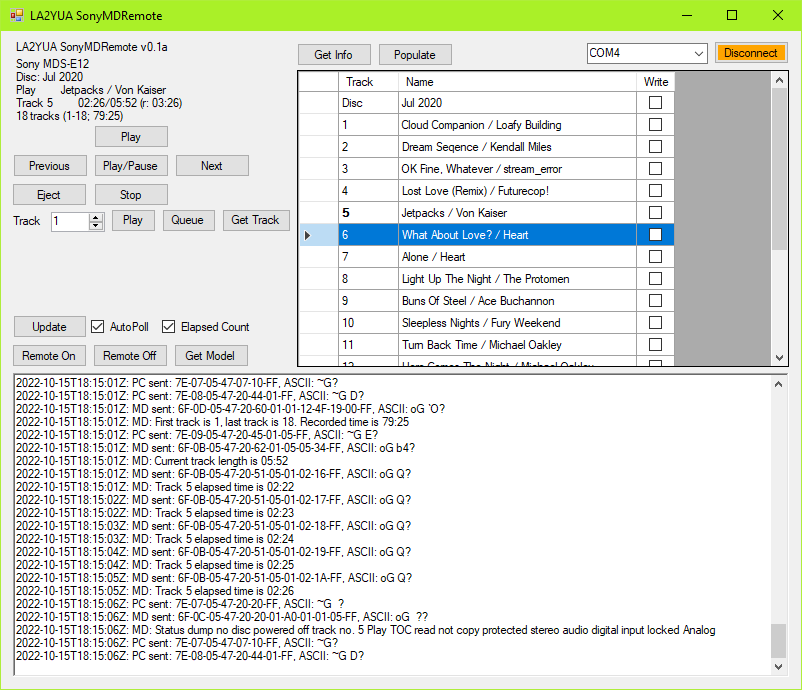
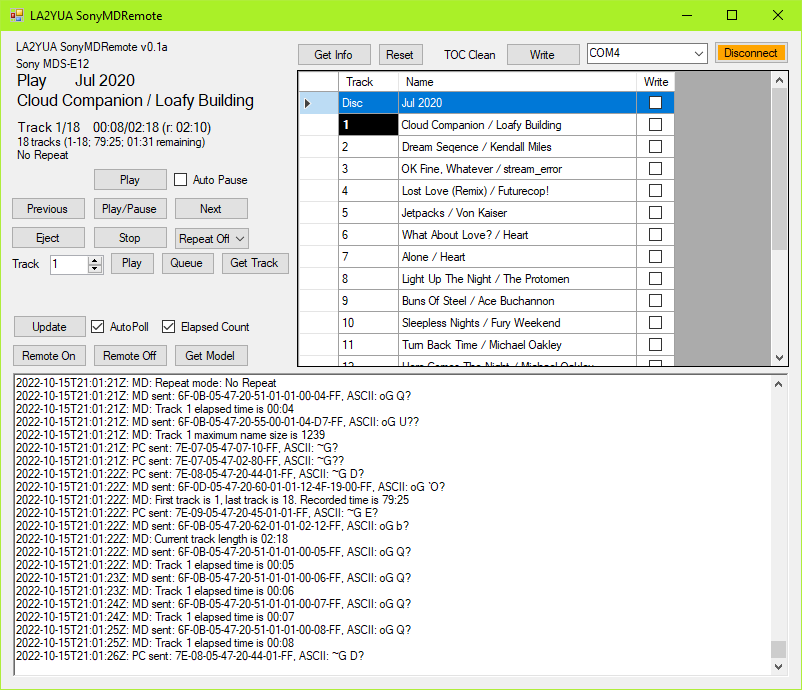
GUI fiddling

diff --git a/SonyMDRemote.Designer.cs b/SonyMDRemote.Designer.cs
@@ -149,7 +149,7 @@
             // 
             // button3
             // 
-            this.button3.Location = new System.Drawing.Point(93, 123);
+            this.button3.Location = new System.Drawing.Point(92, 166);
             this.button3.Name = "button3";
             this.button3.Size = new System.Drawing.Size(75, 23);
             this.button3.TabIndex = 6;
@@ -170,7 +170,7 @@
             // 
             // button5
             // 
-            this.button5.Location = new System.Drawing.Point(11, 123);
+            this.button5.Location = new System.Drawing.Point(10, 166);
             this.button5.Name = "button5";
             this.button5.Size = new System.Drawing.Size(75, 23);
             this.button5.TabIndex = 8;
@@ -180,7 +180,7 @@
             // 
             // button6
             // 
-            this.button6.Location = new System.Drawing.Point(174, 123);
+            this.button6.Location = new System.Drawing.Point(173, 166);
             this.button6.Name = "button6";
             this.button6.Size = new System.Drawing.Size(75, 23);
             this.button6.TabIndex = 9;
@@ -190,7 +190,7 @@
             // 
             // button7
             // 
-            this.button7.Location = new System.Drawing.Point(93, 152);
+            this.button7.Location = new System.Drawing.Point(92, 195);
             this.button7.Name = "button7";
             this.button7.Size = new System.Drawing.Size(75, 23);
             this.button7.TabIndex = 10;
@@ -200,7 +200,7 @@
             // 
             // button8
             // 
-            this.button8.Location = new System.Drawing.Point(93, 94);
+            this.button8.Location = new System.Drawing.Point(92, 137);
             this.button8.Name = "button8";
             this.button8.Size = new System.Drawing.Size(75, 23);
             this.button8.TabIndex = 11;
@@ -211,9 +211,10 @@
             // label2
             // 
             this.label2.AutoSize = true;
-            this.label2.Location = new System.Drawing.Point(12, 65);
+            this.label2.Font = new System.Drawing.Font("Microsoft Sans Serif", 9.75F, System.Drawing.FontStyle.Regular, System.Drawing.GraphicsUnit.Point, ((byte)(0)));
+            this.label2.Location = new System.Drawing.Point(13, 88);
             this.label2.Name = "label2";
-            this.label2.Size = new System.Drawing.Size(56, 13);
+            this.label2.Size = new System.Drawing.Size(67, 16);
             this.label2.TabIndex = 12;
             this.label2.Text = "Track 255";
             this.label2.Click += new System.EventHandler(this.label2_Click);
@@ -221,16 +222,17 @@
             // label3
             // 
             this.label3.AutoSize = true;
-            this.label3.Location = new System.Drawing.Point(12, 52);
+            this.label3.Font = new System.Drawing.Font("Microsoft Sans Serif", 12F, System.Drawing.FontStyle.Regular, System.Drawing.GraphicsUnit.Point, ((byte)(0)));
+            this.label3.Location = new System.Drawing.Point(12, 39);
             this.label3.Name = "label3";
-            this.label3.Size = new System.Drawing.Size(50, 13);
+            this.label3.Size = new System.Drawing.Size(38, 20);
             this.label3.TabIndex = 13;
-            this.label3.Text = "Playing : ";
+            this.label3.Text = "Play";
             this.label3.Click += new System.EventHandler(this.label3_Click);
             // 
             // button9
             // 
-            this.button9.Location = new System.Drawing.Point(11, 152);
+            this.button9.Location = new System.Drawing.Point(10, 195);
             this.button9.Name = "button9";
             this.button9.Size = new System.Drawing.Size(75, 23);
             this.button9.TabIndex = 14;
@@ -260,7 +262,7 @@
             // 
             // button12
             // 
-            this.button12.Location = new System.Drawing.Point(221, 178);
+            this.button12.Location = new System.Drawing.Point(220, 221);
             this.button12.Name = "button12";
             this.button12.Size = new System.Drawing.Size(69, 23);
             this.button12.TabIndex = 17;
@@ -271,7 +273,7 @@
             // label4
             // 
             this.label4.AutoSize = true;
-            this.label4.Location = new System.Drawing.Point(12, 78);
+            this.label4.Location = new System.Drawing.Point(13, 104);
             this.label4.Name = "label4";
             this.label4.Size = new System.Drawing.Size(92, 13);
             this.label4.TabIndex = 18;
@@ -280,7 +282,7 @@
             // 
             // numericUpDown1
             // 
-            this.numericUpDown1.Location = new System.Drawing.Point(50, 181);
+            this.numericUpDown1.Location = new System.Drawing.Point(49, 224);
             this.numericUpDown1.Maximum = new decimal(new int[] {
             255,
             0,
@@ -297,7 +299,7 @@
             // 
             // button13
             // 
-            this.button13.Location = new System.Drawing.Point(110, 178);
+            this.button13.Location = new System.Drawing.Point(109, 221);
             this.button13.Name = "button13";
             this.button13.Size = new System.Drawing.Size(45, 23);
             this.button13.TabIndex = 20;
@@ -307,7 +309,7 @@
             // 
             // button14
             // 
-            this.button14.Location = new System.Drawing.Point(161, 178);
+            this.button14.Location = new System.Drawing.Point(160, 221);
             this.button14.Name = "button14";
             this.button14.Size = new System.Drawing.Size(54, 23);
             this.button14.TabIndex = 21;
@@ -318,7 +320,7 @@
             // label5
             // 
             this.label5.AutoSize = true;
-            this.label5.Location = new System.Drawing.Point(9, 183);
+            this.label5.Location = new System.Drawing.Point(8, 226);
             this.label5.Name = "label5";
             this.label5.Size = new System.Drawing.Size(35, 13);
             this.label5.TabIndex = 22;
@@ -332,18 +334,20 @@
             // label6
             // 
             this.label6.AutoSize = true;
-            this.label6.Location = new System.Drawing.Point(74, 65);
+            this.label6.Font = new System.Drawing.Font("Microsoft Sans Serif", 9.75F, System.Drawing.FontStyle.Regular, System.Drawing.GraphicsUnit.Point, ((byte)(0)));
+            this.label6.Location = new System.Drawing.Point(89, 88);
             this.label6.Name = "label6";
-            this.label6.Size = new System.Drawing.Size(82, 13);
+            this.label6.Size = new System.Drawing.Size(98, 16);
             this.label6.TabIndex = 23;
             this.label6.Text = "MM:SS/MM:SS";
             // 
             // label7
             // 
             this.label7.AutoSize = true;
-            this.label7.Location = new System.Drawing.Point(12, 39);
+            this.label7.Font = new System.Drawing.Font("Microsoft Sans Serif", 12F, System.Drawing.FontStyle.Regular, System.Drawing.GraphicsUnit.Point, ((byte)(0)));
+            this.label7.Location = new System.Drawing.Point(70, 39);
             this.label7.Name = "label7";
-            this.label7.Size = new System.Drawing.Size(57, 13);
+            this.label7.Size = new System.Drawing.Size(84, 20);
             this.label7.TabIndex = 24;
             this.label7.Text = "Disc name";
             this.label7.Click += new System.EventHandler(this.label7_Click);
@@ -351,9 +355,10 @@
             // label8
             // 
             this.label8.AutoSize = true;
-            this.label8.Location = new System.Drawing.Point(57, 52);
+            this.label8.Font = new System.Drawing.Font("Microsoft Sans Serif", 12F, System.Drawing.FontStyle.Regular, System.Drawing.GraphicsUnit.Point, ((byte)(0)));
+            this.label8.Location = new System.Drawing.Point(12, 59);
             this.label8.Name = "label8";
-            this.label8.Size = new System.Drawing.Size(61, 13);
+            this.label8.Size = new System.Drawing.Size(88, 20);
             this.label8.TabIndex = 25;
             this.label8.Text = "Trackname";
             // 
@@ -426,7 +431,7 @@
             // checkBox3
             // 
             this.checkBox3.AutoSize = true;
-            this.checkBox3.Location = new System.Drawing.Point(174, 98);
+            this.checkBox3.Location = new System.Drawing.Point(173, 141);
             this.checkBox3.Name = "checkBox3";
             this.checkBox3.Size = new System.Drawing.Size(81, 17);
             this.checkBox3.TabIndex = 30;
@@ -478,7 +483,7 @@
             // label11
             // 
             this.label11.AutoSize = true;
-            this.label11.Location = new System.Drawing.Point(12, 91);
+            this.label11.Location = new System.Drawing.Point(13, 117);
             this.label11.Name = "label11";
             this.label11.Size = new System.Drawing.Size(59, 13);
             this.label11.TabIndex = 33;
@@ -492,9 +497,9 @@
             "Repeat Off",
             "All Repeat",
             "1Tr Repeat"});
-            this.comboBox1.Location = new System.Drawing.Point(11, 207);
+            this.comboBox1.Location = new System.Drawing.Point(174, 197);
             this.comboBox1.Name = "comboBox1";
-            this.comboBox1.Size = new System.Drawing.Size(93, 21);
+            this.comboBox1.Size = new System.Drawing.Size(74, 21);
             this.comboBox1.TabIndex = 34;
             // 
             // SonyMDRemote

diff --git a/SonyMDRemote.cs b/SonyMDRemote.cs
@@ -619,6 +619,7 @@ namespace SonyMDRemote
         int _infocounter = -1;
         byte _currtracklen_min = 0;
         byte _currtracklen_sec = 0;
+        byte _lasttrackno = 0;
         TimeSpan _remainingrecordtime = new TimeSpan(0);
         string discname;
 
@@ -740,7 +741,7 @@ namespace SonyMDRemote
                         // 9 is fixed 1
                         byte TrackNo = ArrRep[10];
 
-                        label2.Text = String.Format("Track {0}", TrackNo);
+                        label2.Text = String.Format("Track {0}/{1}", TrackNo, _lasttrackno);
                         _currentrack = TrackNo;
                         UpdateDataGridBold(TrackNo);
 
@@ -900,7 +901,7 @@ namespace SonyMDRemote
                             discname = TrimNonAscii(DecodeAscii(ref ArrRep, 7));
                         else
                             discname += TrimNonAscii(DecodeAscii(ref ArrRep, 7));
-                        label7.Text = String.Format("Disc: {0}", discname);
+                        label7.Text = String.Format("{0}", discname);
                         AppendLog("MD: Disc name part {1} is: {0}", TrimNonAscii(DecodeAscii(ref ArrRep, 7)), Segment);
                     }
 
@@ -982,6 +983,7 @@ namespace SonyMDRemote
                     {
                         byte FirstTrackNo = ArrRep[7];
                         byte LastTrackNo = ArrRep[8];
+                        _lasttrackno = LastTrackNo;
                         byte Min = ArrRep[9];
                         byte Sec = ArrRep[10];
                         AppendLog("MD: First track is {0}, last track is {1}. Recorded time is {2:00}:{3:00}", FirstTrackNo,LastTrackNo,Min,Sec);
@@ -1239,7 +1241,7 @@ namespace SonyMDRemote
 
         private void DoUpdateTask()
         {
-            
+            Transmit_MDS_Message(MDS_TX_ReqTOCData);
             Transmit_MDS_Message(MDS_TX_ReqStatus);
             Transmit_MDS_Message(MDS_TX_ReqTrackRemainingNameSize, tracknumber: _currentrack);
             if (checkBox2.Checked)
